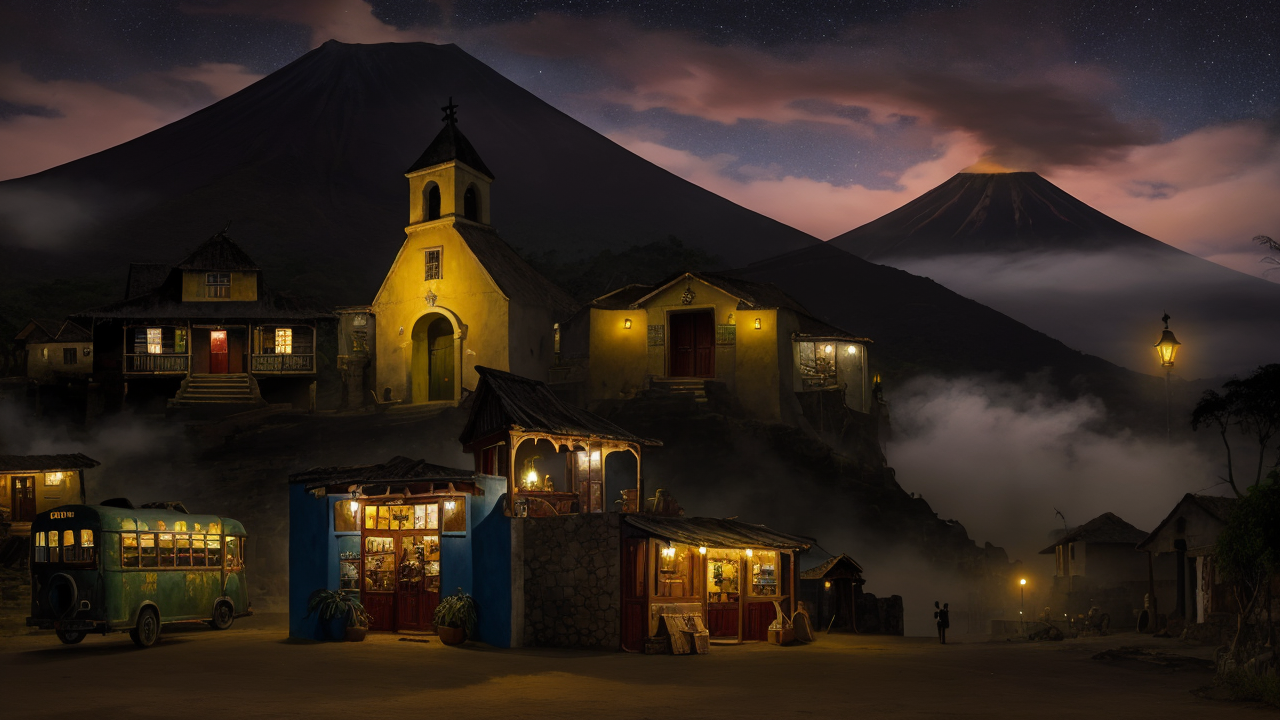
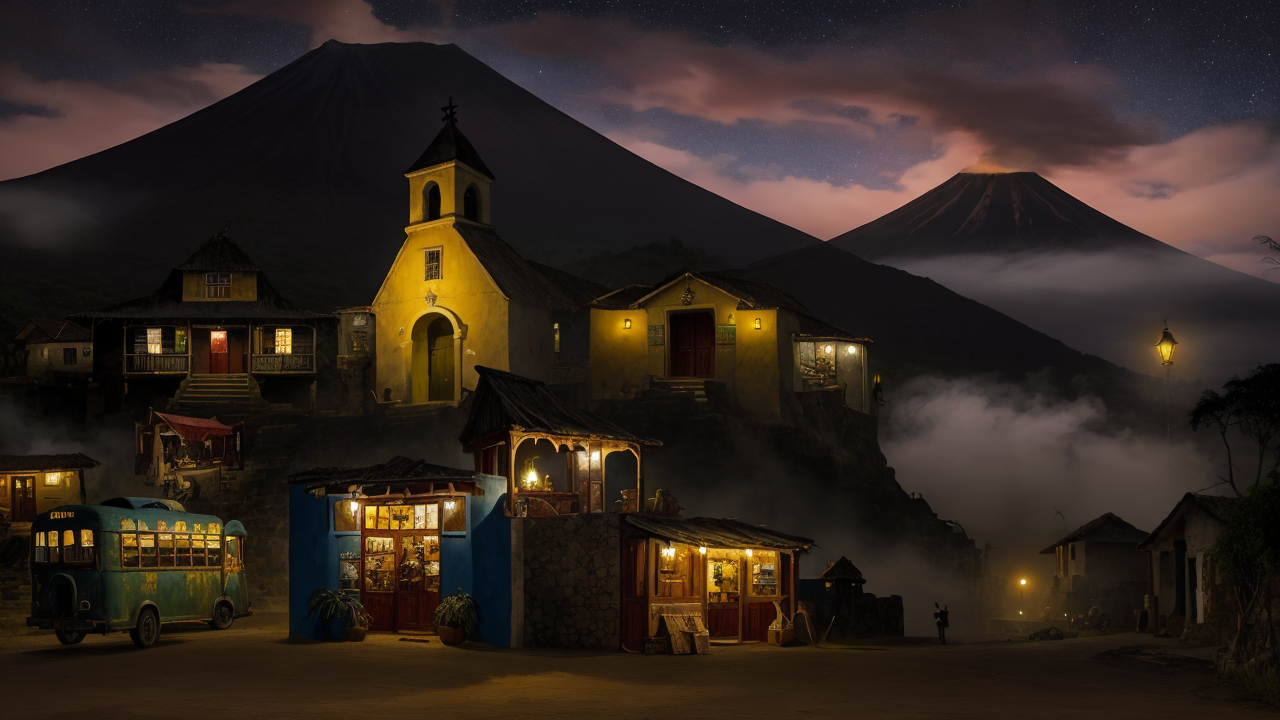
P3-05c: Feria painted into the town (repaint, Cantina/Guardabosques split redone); P3-05c/d to review; handoff
Claude-Session: https://claude.ai/code/session_01Cq1nnha6SahrgfYhzyyUap

diff --git a/docs/02-hacienda-hub-design.md b/docs/02-hacienda-hub-design.md
@@ -34,7 +34,7 @@ The hub is drawn as a painted town, like the Darkest Dungeon hamlet: one paintin
 | Feria Nocturna | this week's accessories (one of each, rerolled weekly), the same equipment slots, and buys used accessories back (P3-05a) |
 | Guardabosques del Arenal | the selected hero's camp skills: learn, fix one, swap a shared one (§9) |
 
-The EBAIS stays a button on each roster row. Mejoras de Hacienda has no picture (its rows are on each building's page). The Feria Nocturna (P3-05a) stands at the right of the plaza with a stand-in cut from the *Feria de artesanía* event picture (`assets/town/feria.png`) until P3-05c paints its own and repaints the town. The Guardabosques is the shed by the Cantina, cut from the painted town; `tools/art_manifest.json` `town_guardabosques` is its own art for the next repaint.
+The EBAIS stays a button on each roster row. Mejoras de Hacienda has no picture (its rows are on each building's page). The Feria Nocturna (P3-05a) is the red-canopied wagon left of the church, above the bus: its own art (`town_feria`, P3-05c) painted into the town with the 2026-11-21 repaint (same seed and strength as before, so the rest of the town barely changed). The Guardabosques is the shed by the Cantina, cut from the painted town; `tools/art_manifest.json` `town_guardabosques` is its own art for the next repaint.
 
 ## 2) Building Mapping
 
@@ -229,8 +229,8 @@ Each branch has 3 activities with independent slots and upgrade levels.
 - Each week the stall shows `feria.stock_size` (6) different accessories, one of each; buying one takes it off until the next week. Accessories dearer than `feria.cheap_price` (550 ₡) are drawn at `feria.pricey_min_weight` (0.35) of the weight in week 1, rising to full weight by `feria.full_stock_week` (8). Regions don't weigh in yet (only Sótanos is playable). Rules: `scripts/domain/feria.gd`; stock: `GameState.feria_stock` (save v16).
 - Its page carries the same equipment fold as the Taller, so a hero can put on an accessory where it was bought. Town events close it (owner 2026-11-21): *Aguacero de octubre* (buying and selling), *Huelga de transportistas* (buying); *La de la feria anda de buenas* (was *El herrero…*) gives the first accessory −80%.
 - **Upgrades (P3-05b):** *Tamaño de Puestos* +1/+2/+3 accessories on the stall (the new places fill at once when bought; 1 R + 500 ₡, 2 R + 1000 ₡, 3 R + 1600 ₡); *Cadena de Comerciantes* −10/−20/−30% on Feria prices (1 R + 400 ₡, 2 R + 800 ₡, 3 R + 1400 ₡; selling back still pays half the list price). `data/upgrades.json` `feria`.
-- **Cursed trinkets (P3-05b):** five accessories (`cursed: true` in `data/items.json`), each a strong bonus with a real cost, from Costa Rican legends: *Diente de la Segua* (+4 daño, +3 crítico, −15 resist. estrés), *Rosario del Padre sin Cabeza* (+30 resist. estrés, +30 susto, −3 velocidad), *Espuela del Mandador* (+4 velocidad, +3 precisión, −6 PV máx.), *Cascabel de la Tulevieja* (+6 esquiva, weak to oscuridad ×1.5), *Peseta del Diablo* (+8 PV máx., +4 protección, −15 resist. golpe de gracia). 900–1100 ₡. Each week, at `feria.cursed_chance` (0.25), one is added on top of the stall. Never dropped, found in curios or given by events. Icons are tinted stand-ins until the owner's machine paints `item_<id>` (art_manifest).
-- Still to do: its own town art (P3-05c).
+- **Cursed trinkets (P3-05b):** five accessories (`cursed: true` in `data/items.json`), each a strong bonus with a real cost, from Costa Rican legends: *Diente de la Segua* (+4 daño, +3 crítico, −15 resist. estrés), *Rosario del Padre sin Cabeza* (+30 resist. estrés, +30 susto, −3 velocidad), *Espuela del Mandador* (+4 velocidad, +3 precisión, −6 PV máx.), *Cascabel de la Tulevieja* (+6 esquiva, weak to oscuridad ×1.5), *Peseta del Diablo* (+8 PV máx., +4 protección, −15 resist. golpe de gracia). 900–1100 ₡. Each week, at `feria.cursed_chance` (0.25), one is added on top of the stall. Never dropped, found in curios or given by events. Icons generated from `item_<id>` in the art manifest (P3-05c; the Diente's is a bone pendant, the model kept drawing horses for "horse tooth").
+- Art (P3-05c, 2026-11-21): the town wagon and the five icons were generated on CPU in a cloud container (dreamshaper-8, as the manifest says).
 
 ## 9) Guardabosques del Arenal (Camp Skills)
 

diff --git a/docs/HANDOFF.md b/docs/HANDOFF.md
@@ -17,6 +17,23 @@ Newest entry first. Every agent session ends by adding an entry here (rules: [..
 
 ---
 
+## 2026-11-21 (34) — P3-05c + P3-05d: Feria art and town repaint; Taller weapon/armor ranks
+- **Agent / branch:** Claude Code (cloud) / `betomm/hopeful-hopper-ope58w`
+- **Status after session:** P3-05c review, P3-05d review (owner asked for both).
+- **Changed (P3-05d):**
+  - New `scripts/domain/gear_ranks.gd`: weapon / armor ranks 1–5 per hero slot (DD blacksmith, doc 04 §3.4), kept across items, counted only while the slot is worn, resolve as skill ranks; `data/balance.json` `taller.*` (600 / 1300 / 2200 / 3500 ₡, rank 5 + 1 Reliquia; +1 daño/+1 precisión or +3% prot/+2 PV per rank).
+  - `data/upgrades.json` `taller`: Forja de Machetes (`weapon_rank_cap` 2→5), Chapería de Armaduras (`armor_rank_cap` 2→5), Horno Eficiente (`cost_discount` 15/30% on rank prices).
+  - `GameState`: `gear_rank_cap/cost/block_reason`, `buy_gear_rank`, bonus in `recompute_stats`, hero `gear_ranks`, **SAVE_VERSION 17**. A `taller_compra` closure stops sharpening too.
+  - Hub: Afilar / Reforzar rows under the hero's slots on the Taller page; its Mejoras hide while that fold is open (the page can't fit both). Bot: buys ranks after skill ranks and gear, the three tracks in `UPGRADE_ORDER`.
+  - Validator (`taller.*`, `rank_costs` shape, cap tracks end at `taller.max_rank`), `test_upgrades` (+16 checks), AGENTS.md, docs 02 §5 / 04 §3.4.
+- **Changed (P3-05c):** generated on CPU here (dreamshaper-8, ~40 min for the repaint): `assets/town/feria.png` (`town_feria`, seed 5209, cut out), town repainted (`town_painted.png` + 9 crops, `painted/layout.json` now has `feria`), Cantina crop alpha cleared from x ≥ 814 again (the shed is the Guardabosques' crop). Real icons for the five cursed trinkets (seeds in the manifest; the Diente prompt reworded after two horse heads, seed 6411 is a bone pendant).
+- **Verified:** validator 0 errors; Godot 4.7.2 Linux: smoke + all 20 tests 0 failures after P3-05d; test_ui, test_hub, smoke again after the repaint, 0 failures; screenshots (Taller ranks fold open / closed, town with the painted Feria). Balance: 12 seeds × 3 × 24 weeks with the Taller: Veterano 75%, Campeón 60% (70 exp.), deaths 0.14, 34 of 36 solvent — every P5-11 band holds (`docs/playtests/2026-11-21-p5-11.md`).
+- **Not verified / risks:** not played by hand. The repaint changed every building crop slightly (same seed/strength; the old ones are in git history). Rank prices are below doc 04's.
+- **Decisions needed:** owner: Taller rank prices 600/1300/2200/3500 (doc 04 said 900/1900/3400/5600) — keep? Diente de la Segua icon: keep the bone pendant or re-roll on your machine?
+- **Next step:** owner playtest of the P3-05 Feria/Taller work and the town; then pick from the plan's remaining todo (P4-01 prep/extraction screens, P4-02 tooltips, P4-04 audio) or P5-03 sign-off once reviews are done.
+
+---
+
 ## 2026-11-21 (33) — P5-11: Veterano / Campeón retuned for the upgraded game
 - **Agent / branch:** Claude Code (cloud) / `betomm/hopeful-hopper-ope58w`
 - **Status after session:** P5-11 done.
